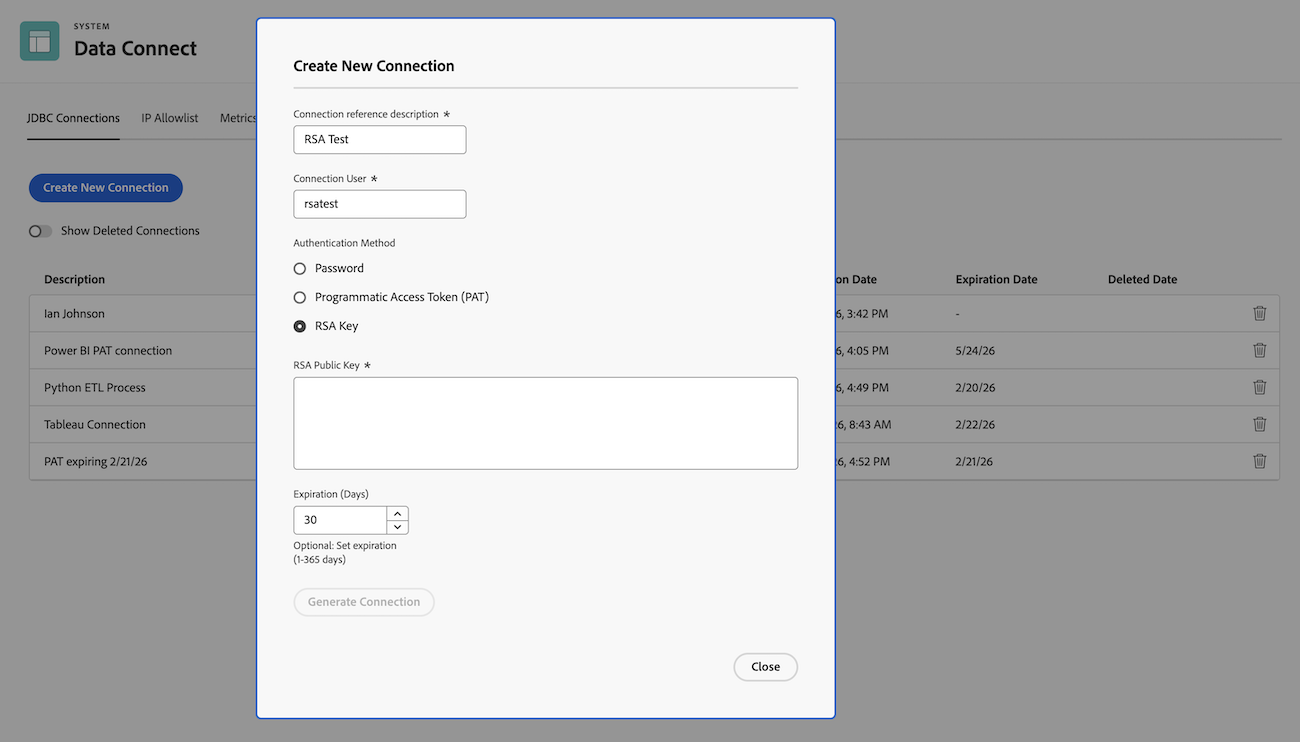
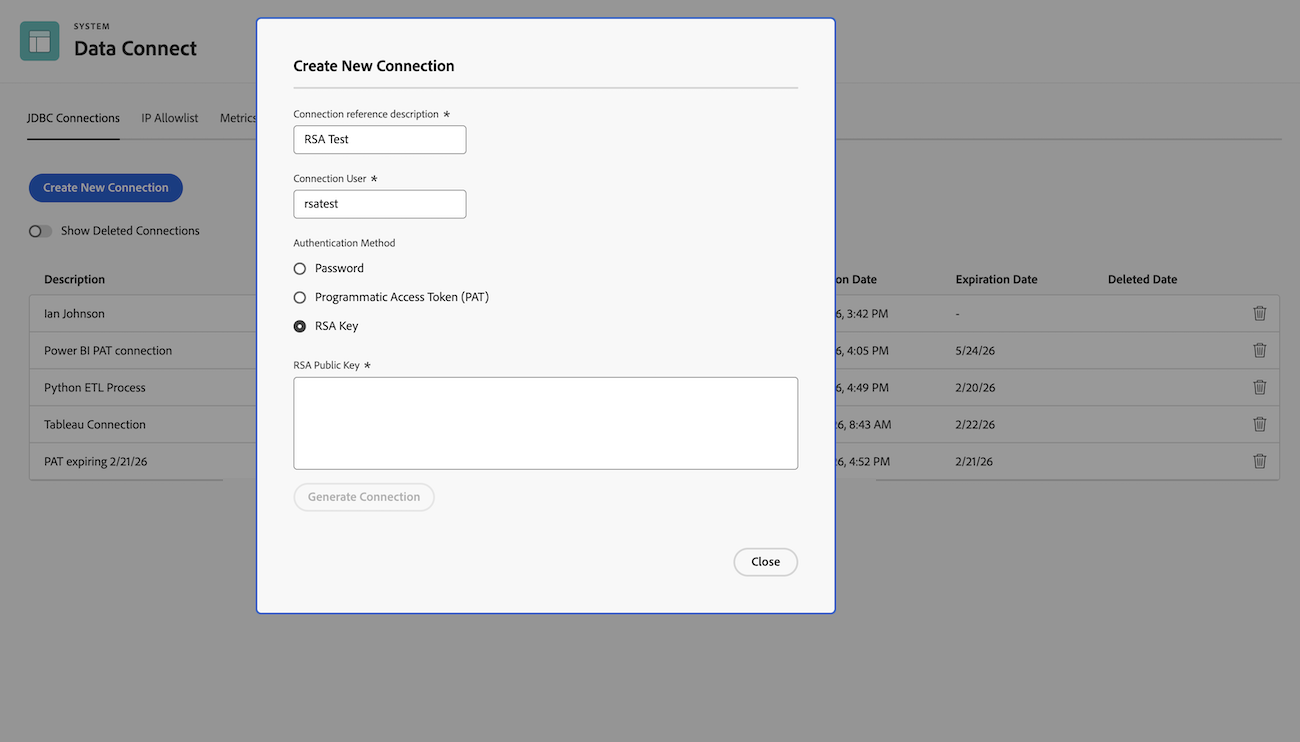
save

Changed region(s): [[0.1846, 0.8059, 0.6462, 0.9919], [0.2154, 0.6509, 0.3077, 0.7749], [0.5846, 0.7439, 0.6154, 0.7749]]

diff --git a/help/quicksilver/reports-and-dashboards/data-lake/create-a-reader-account.md b/help/quicksilver/reports-and-dashboards/data-lake/create-a-reader-account.md
@@ -119,8 +119,6 @@ To create a reader account:
 
 1. Enter an RSA public key in the **RSA Public Key** field. 
 
-1. Enter an expiration date for your token in the **Expiration date** field. You can choose an expiration date up to 365 days in the future. 
-
 1. Click **Generate Connection**.
 
 1. A connection is generated, as well as a URL where your data can be viewed through Snowflake. You need to use the RSA key with the username you chose to sign in to Snowflake, so ensure that you keep a record of it as well as the URL. Check the box claiming you have done so, then click **Close**.
